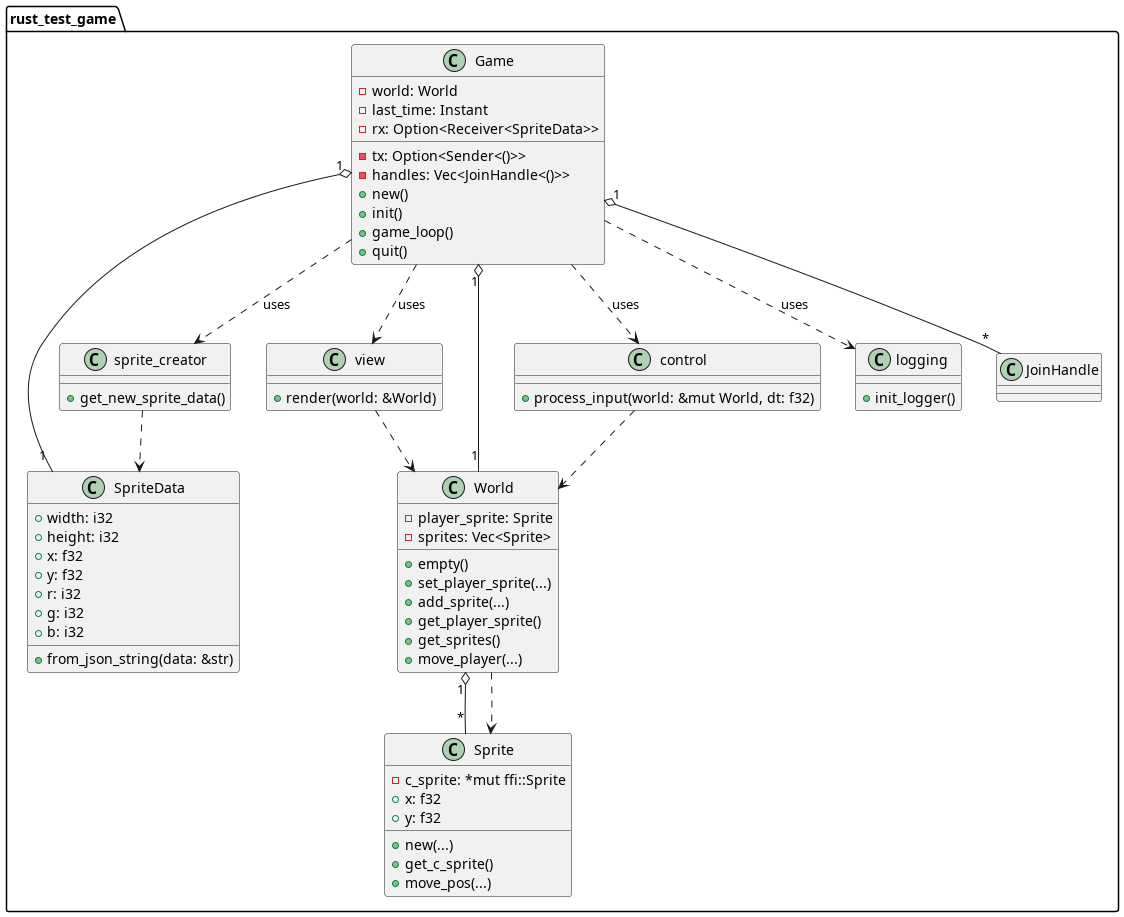
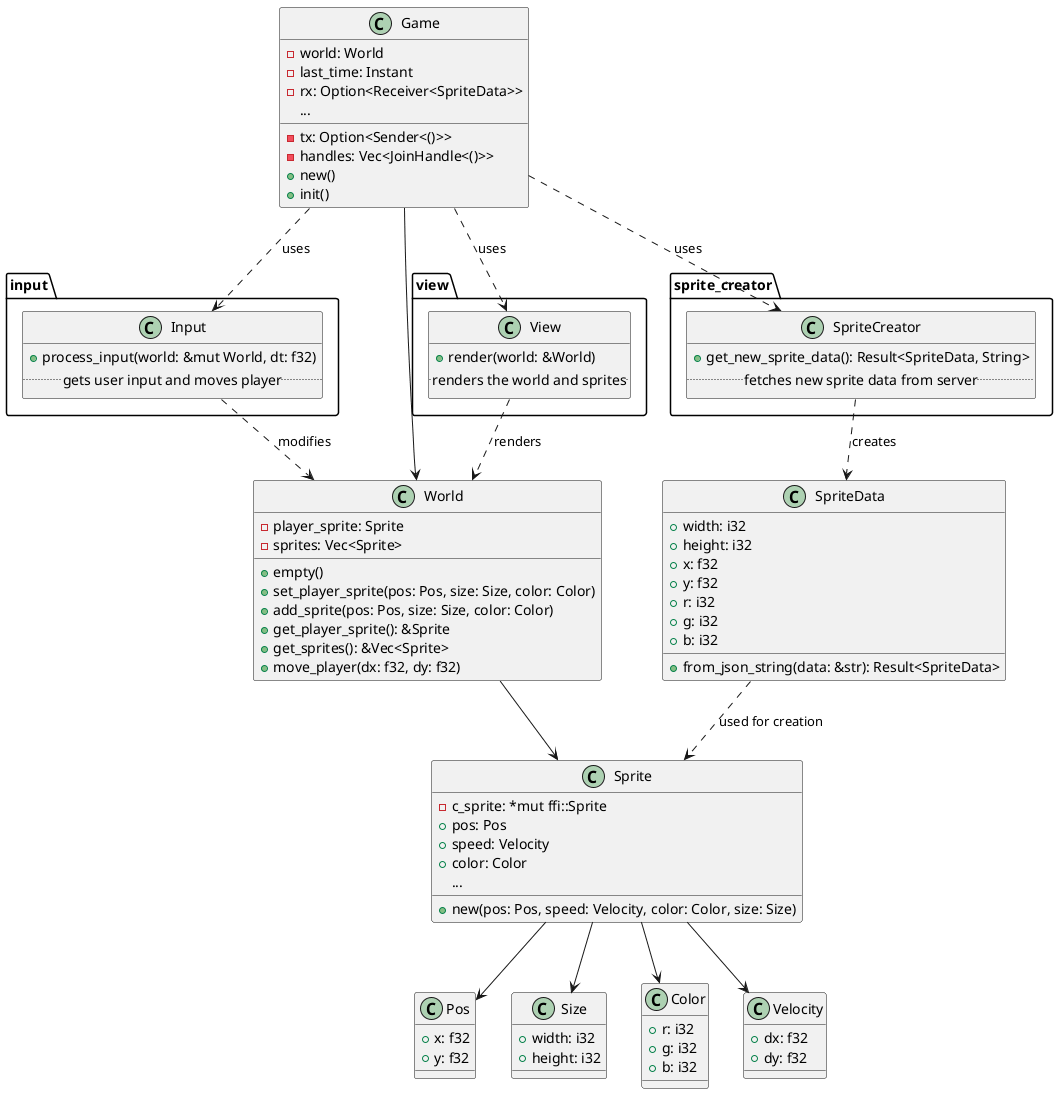
Refactor

Changed region(s): [[0.0, 0.0, 0.9981, 1.0]]

diff --git a/rust_test_game/src/world.rs b/rust_test_game/src/world.rs
@@ -1,4 +1,4 @@
-use crate::sprite::Sprite;
+use crate::sprite::*;
 
 /// Represents the game world, containing the player sprite and other sprites.
 pub struct World {
@@ -9,40 +9,35 @@ pub struct World {
 impl World {
     /// Creates an empty world with a default player sprite and no other sprites.
     pub fn empty() -> Self {
-        Self{
-            player_sprite: Sprite::new(0.0,0.0,0,0,0,0,0),
+        Self {
+            player_sprite: Sprite::new(
+                Pos { x: 0.0, y: 0.0 },
+                Velocity { dx: 0.0, dy: 0.0 },
+                Color { r: 0, g: 0, b: 0 },
+                Size { width: 0, height: 0 },
+            ),
             sprites: Vec::new(),
         }
     }
 
     /// Sets the player sprite's position, size, and color.
-    ///
-    /// # Arguments
-    ///
-    /// * `x` - The x position of the player sprite.
-    /// * `y` - The y position of the player sprite.
-    /// * `width` - The width of the player sprite.
-    /// * `height` - The height of the player sprite.
-    /// * `r` - The red color component.
-    /// * `g` - The green color component.
-    /// * `b` - The blue color component.
-    pub fn set_player_sprite(&mut self, x: f32, y: f32, width: i32, height: i32, r: i32, g: i32, b: i32) {
-        self.player_sprite = Sprite::new(x,y,width,height,r,g,b);
+    pub fn set_player_sprite(&mut self, pos: Pos, size: Size, color: Color) {
+        self.player_sprite = Sprite::new(
+            pos,
+            Velocity { dx: 0.0, dy: 0.0 },
+            color,
+            size,
+        );
     }
 
     /// Adds a new sprite to the world with the given position, size, and color.
-    ///
-    /// # Arguments
-    ///
-    /// * `x` - The x position of the sprite.
-    /// * `y` - The y position of the sprite.
-    /// * `width` - The width of the sprite.
-    /// * `height` - The height of the sprite.
-    /// * `r` - The red color component.
-    /// * `g` - The green color component.
-    /// * `b` - The blue color component.
-    pub fn add_sprite(&mut self, x: f32, y: f32, width: i32, height: i32, r: i32, g: i32, b: i32) {
-        self.sprites.push(Sprite::new(x,y,width,height,r,g,b));
+    pub fn add_sprite(&mut self, pos: Pos, size: Size, color: Color) {
+        self.sprites.push(Sprite::new(
+            pos,
+            Velocity { dx: 0.0, dy: 0.0 },
+            color,
+            size,
+        ));
     }
 
     /// Returns a reference to the player sprite.
@@ -55,14 +50,8 @@ impl World {
         &self.sprites
     }
 
-    /// Moves the player sprite by the given delta values
-    ///
-    /// # Arguments
-    ///
-    /// * `dx` - The change in x position.
-    /// * `dy` - The change in y position.
-    pub fn move_player(&mut self, dx: f32, dy: f32)
-    {
+    /// Moves the player sprite by the given delta values.
+    pub fn move_player(&mut self, dx: f32, dy: f32) {
         self.player_sprite.move_pos(dx, dy);
     }
 }

diff --git a/rust_test_game/src/sprite.rs b/rust_test_game/src/sprite.rs
@@ -1,12 +1,36 @@
 use game_engine::*;
 
 /// Represents a sprite in the game world, holding its position and a pointer to the underlying C sprite.
+pub struct Color {
+    pub r: i32,
+    pub g: i32,
+    pub b: i32,
+}
+
+pub struct Pos {
+    pub x: f32,
+    pub y: f32,
+}
+
+#[allow(dead_code)]
+pub struct Velocity {
+    pub dx: f32,
+    pub dy: f32,
+}
+
+pub struct Size {
+    pub width: i32,
+    pub height: i32,
+}
+
+/// Represents a sprite in the game world, holding its position and a pointer to the underlying C sprite.
 pub struct Sprite {
     c_sprite: *mut ffi::Sprite,
-    /// The x position of the sprite.
-    pub x: f32,
-    /// The y position of the sprite.
-    pub y: f32,
+    pub pos: Pos,
+    #[allow(dead_code)]
+    pub speed: Velocity, // for later code updates
+    #[allow(dead_code)]
+    pub color: Color, // for later code updates
 }
 
 impl Sprite {
@@ -21,23 +45,32 @@ impl Sprite {
     /// * `r` - The red color component.
     /// * `g` - The green color component.
     /// * `b` - The blue color component.
-    pub fn new(x: f32, y: f32, width: i32, height: i32, r: i32, g: i32, b: i32) -> Self {
-        let sprite_ptr = spawn_sprite!(x, y, width, height, r, g, b);
+    pub fn new(pos: Pos, speed: Velocity, color: Color, size: Size) -> Self {
+        let sprite_ptr = spawn_sprite!(
+            pos.x,
+            pos.y,
+            size.width,
+            size.height,
+            color.r,
+            color.g,
+            color.b
+        );
         Self {
             c_sprite: sprite_ptr,
-            x: x,
-            y: y,
+            pos,
+            speed,
+            color,
         }
     }
 
     /// Returns a pointer to the underlying C sprite.
-    pub fn get_c_sprite(&self) -> *mut ffi::Sprite{
+    pub fn get_c_sprite(&self) -> *mut ffi::Sprite {
         return self.c_sprite;
     }
 
-    pub fn move_pos(&mut self, dx: f32, dy: f32){
-        self.x += dx;
-        self.y += dy;
-        move_sprite!(self.get_c_sprite(), self.x, self.y);
+    pub fn move_pos(&mut self, dx: f32, dy: f32) {
+        self.pos.x += dx;
+        self.pos.y += dy;
+        move_sprite!(self.get_c_sprite(), self.pos.x, self.pos.y);
     }
 }

diff --git a/rust_test_game/src/game.rs b/rust_test_game/src/game.rs
@@ -1,6 +1,7 @@
-use crate::control;
+use crate::input;
 use crate::sprite_creator;
 use crate::sprite_data::SpriteData;
+use crate::sprite::{Pos, Size, Color};
 use crate::view;
 use crate::world::World;
 use crossbeam_channel::unbounded;
@@ -65,8 +66,13 @@ impl Game {
 
         self.handles.push(handle);
         self.last_time = Instant::now();
-        self.world
-            .set_player_sprite(100.0, 100.0, 100, 100, 255, 0, 0);
+
+        // ✅ Updated: use Pos, Size, Color
+        self.world.set_player_sprite(
+            Pos { x: 100.0, y: 100.0 },
+            Size { width: 100, height: 100 },
+            Color { r: 255, g: 0, b: 0 },
+        );
     }
 
     /// Receives new sprites from the background thread and adds them to the world.
@@ -75,13 +81,16 @@ impl Game {
             Some(rx) => {
                 if let Ok(received) = rx.try_recv() {
                     self.world.add_sprite(
-                        received.x,
-                        received.y,
-                        received.width,
-                        received.height,
-                        received.r,
-                        received.g,
-                        received.b,
+                        Pos { x: received.x, y: received.y },
+                        Size {
+                            width: received.width,
+                            height: received.height,
+                        },
+                        Color {
+                            r: received.r,
+                            g: received.g,
+                            b: received.b,
+                        },
                     );
                 }
             }
@@ -106,7 +115,7 @@ impl Game {
 
         let dt = self.calc_dt();
 
-        control::process_input(&mut self.world, dt);
+        input::process(&mut self.world, dt);
 
         self.receive_new_sprites();
 

diff --git a/rust_test_game/src/input.rs b/rust_test_game/src/input.rs
@@ -7,7 +7,7 @@ use crate::world::World;
 ///
 /// * `world` - A mutable reference to the game world.
 /// * `dt` - The delta time since the last frame, used to scale movement speed.
-pub fn process_input(world: &mut World, dt: f32) {
+pub fn process(world: &mut World, dt: f32) {
         let speed = 0.1;
         let dist = speed * dt;
 

diff --git a/rust_test_game/src/main.rs b/rust_test_game/src/main.rs
@@ -2,7 +2,7 @@
 //!
 //! Initializes logging, creates the game instance, and starts the game loop.
 
-mod control;
+mod input;
 mod game;
 mod logging;
 mod sprite;
